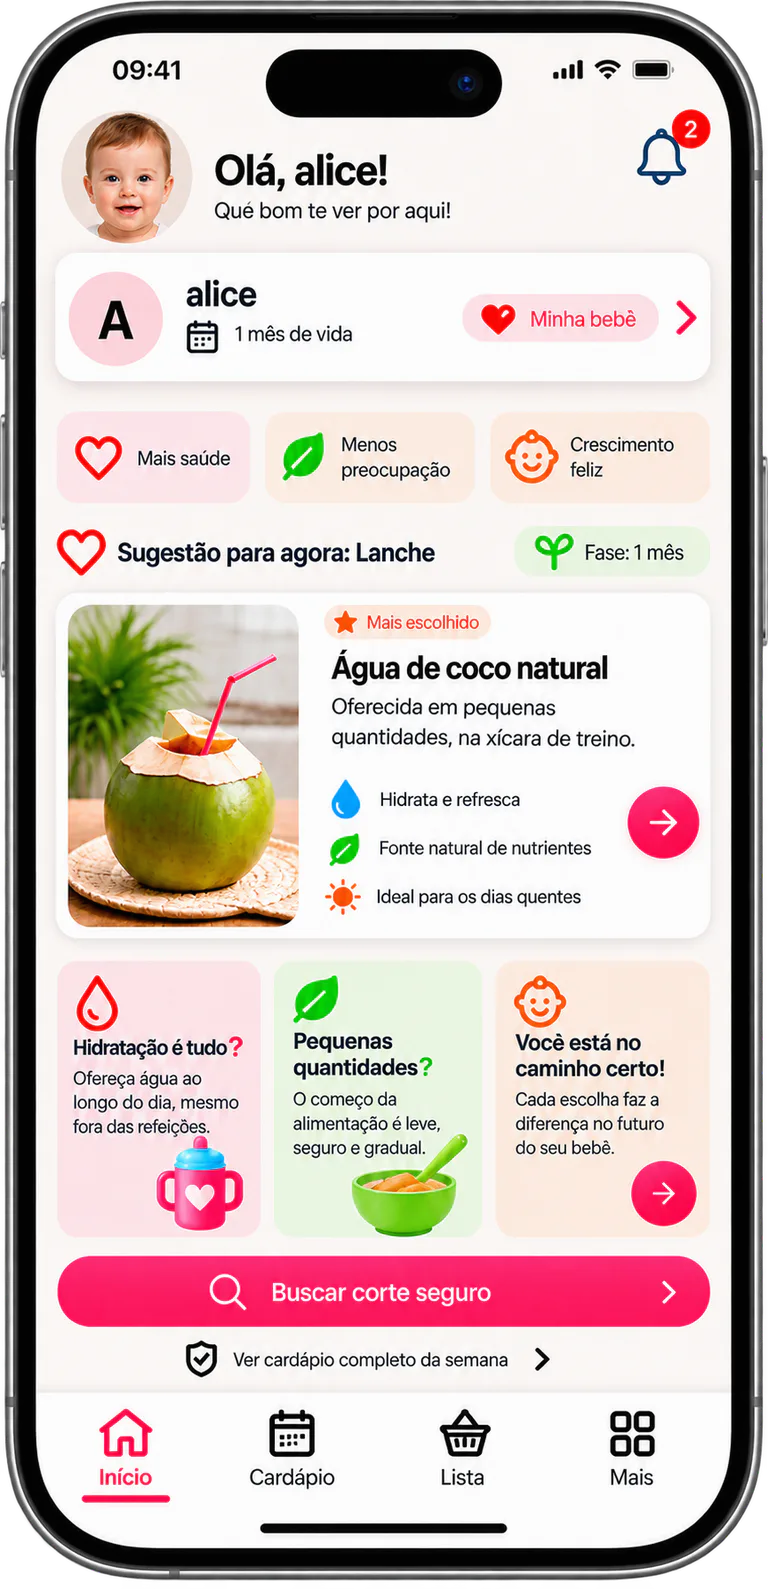
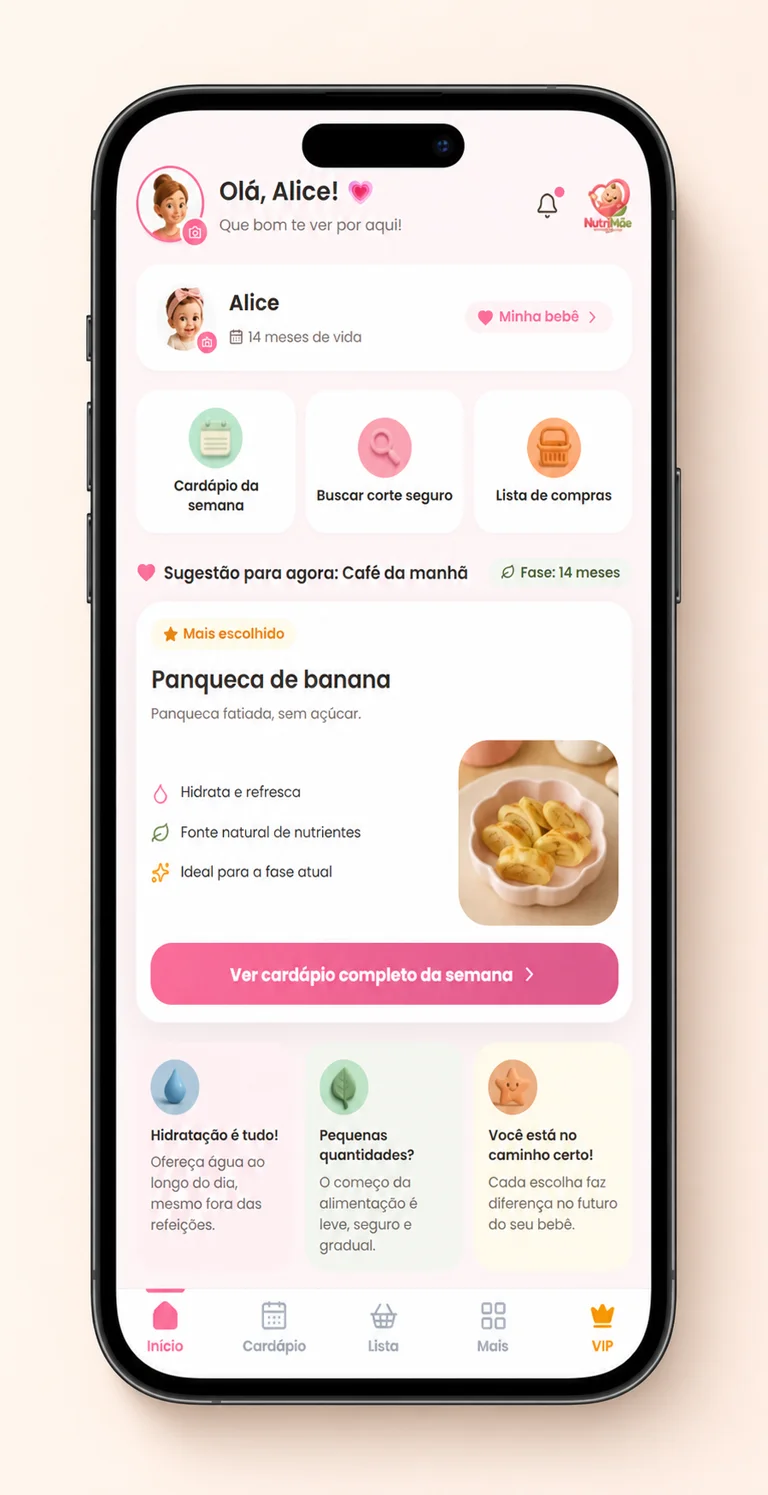
feat: atualiza artes do order bump e da landing pra refletir a home atual do app
Order bump do Anual (nutrimae-anual.webp) e o mockup de celular da landing
(entregavel.png + derivados 384w/768w) mostravam a versao antiga da home
(icones genericos, tigela generica, dois CTAs). Substituidos pelas artes
fornecidas pelo usuario, ja retratando a home atual: avatares mae/bebe,
atalhos com icone certo, foto do prato certo, CTA unico.

diff --git a/landing-nutrimae/index.html b/landing-nutrimae/index.html
@@ -195,7 +195,7 @@
   <div class="container">
     <picture>
       <source type="image/webp" srcset="assets/entregavel-384.webp 384w, assets/entregavel-768.webp 768w" sizes="(max-width: 480px) calc(100vw - 40px), 340px">
-      <img src="assets/entregavel.png" alt="Tela do app NutriMãe com cardápio, guia visual de cortes e organização por fase" class="app-preview__img" width="872" height="1804" loading="lazy" decoding="async">
+      <img src="assets/entregavel.png" alt="Tela do app NutriMãe com cardápio, guia visual de cortes e organização por fase" class="app-preview__img" width="872" height="1698" loading="lazy" decoding="async">
     </picture>
     <button class="btn btn--primary btn--large app-preview__cta" data-anchor-cta="app-preview">Quero isso no meu celular</button>
   </div>
